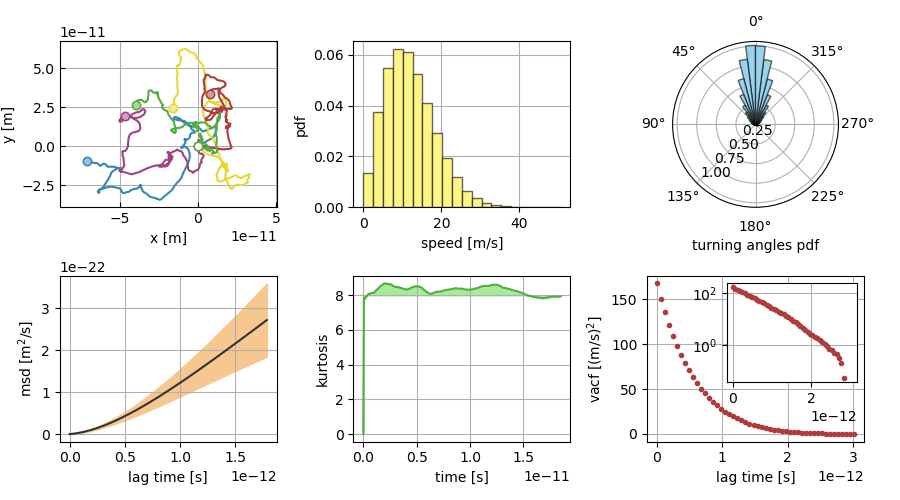
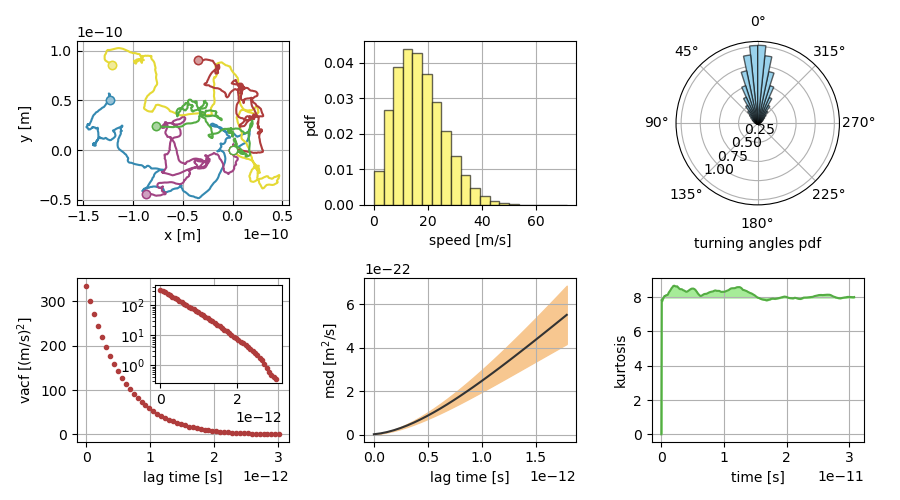
Update example 1 in docs

diff --git a/docs/source/examples/example1.rst b/docs/source/examples/example1.rst
@@ -60,17 +60,8 @@ Fix the random generator seed to make results reproducible:
 2. Definition of parameters
 ---------------------------
 
-First, we establish the generic parameters of the generator first:
+First, we define some physical constants:
 
-.. code-block:: python
-
-   tt_adim = 30     # dimensionless total time
-   dim = 2          # trajectory dimension
-   N = 1000         # number of trajectories
-   dt_adim = 1e-1   # dimensionless time step
-
-Let us define some deterministic parameters of the simulation
-(i.e., particle and fluid properties and physical constants):
 
 .. code-block:: python
 
@@ -83,34 +74,34 @@ Let us define some deterministic parameters of the simulation
    d2 = 18e-10      # semi-minor axis [m] [2]
 
 
-We can indirectly measure quantities that are related with the generator
-parameters required
+Then, we can indirectly measure quantities that are 
+related with the physical model:
 
 .. code-block:: python
 
    m = M / N0                   # mass of one molecule
    a = np.sqrt(d1/2 * d2/2)     # radius of the molecule
    alpha = 6 * np.pi * eta * a  # Stoke's coefficient
-   tau = (alpha / m)**-1        # relaxation time
    v_eq = np.sqrt(k * T / m)    # equilibrium thermal velocity
 
-Then, we can estimate intrinsic reference quantities:
 
-.. code-block:: python
-
-   vr = v_eq       # intrinsic reference velocity
-   tr = tau        # intrinsic reference time
-   lr = vr * tr    # intrinsic reference length
-
-And finally, the actual statistical model parameters for the
+Next, we compute actual statistical model parameters for the
 Langevin Generator:
 
 .. code-block:: python
 
-   dt = dt_adim * tr                        # real time step
-   noise_pdf = 'normal'                     # noise pdf
-   noise_scale_adim = np.sqrt(2 * dt_adim)  # scale parameter of noise pdf
-   v0_adim = np.random.randn(dim, N)        # initial dimensionaless speeds
+   tau = (alpha / m)**-1                   # relaxation time
+   noise_scale = np.sqrt(2 / tau) * v_eq   # scale parameter of noise pdf
+
+
+Finally, we define general simulation parameters:
+
+.. code-block:: python
+
+   dim = 2                # trajectory dimension
+   N = 1000               # number of trajectories
+   dt = 1e-1 * tau        # time step
+   tt = 50 * tau          # total time
 
 .. _Generating trajectories 1:
 
@@ -122,14 +113,9 @@ we just need to instantiate the class and generate the Trajectories:
 
 .. code-block:: python
 
-   lg = LangevinGenerator(tt_adim, dim, N, dt_adim, v0=v0_adim)
-   lg.set_scale(v_scale=vr, r_scale=lr, t_scale=tr)
+   lg = LangevinGenerator(tt, dim, N, dt, tau, noise_scale)
    trajs = lg.generate()
 
-The set_scale method allows to scale the values of Velocity, Position
-and Time after solving the statistical differential equation. It is also
-possible to multiply them directly to the input v0, r0, dt and T, but it
-makes the Generator slower.
 
 .. _Data analysis and plots 1:
 
@@ -153,9 +139,9 @@ Plot velocity histogram
 
 .. code-block:: python
 
-   v = speed_ensemble(trajs, step=1)
-   ax2 = plt.subplot(232)
-   plot_velocity_hist(v, bins=20, show=False)
+   v_norm = speed_ensemble(trajs)
+   plt.subplot(232)
+   plot_velocity_hist(v_norm, bins=20, show=False)
 
 Plot turning angles
 
@@ -163,7 +149,18 @@ Plot turning angles
 
    theta = turning_angles_ensemble(trajs)
    ax3 = plt.subplot(233, projection='polar')
-   plot_angles_hist(theta, show=False)
+   plot_angles_hist(theta, bins=60, show=False)
+
+
+Plot Velocity autocorrelation function
+
+.. code-block:: python
+
+   lag_vacf = 50
+   vacf, _ = vacf(trajs, time_avg=True, lag=lag_vacf)
+   ax6 = plt.subplot(234)
+   plot_vacf(vacf, dt, lag_vacf, show=False)
+
 
 Plot Mean Square Displacement
 
@@ -171,7 +168,7 @@ Plot Mean Square Displacement
 
    lag_msd = 30
    msd, msd_std = msd(trajs, time_avg=True, lag=lag_msd)
-   ax4 = plt.subplot(234)
+   ax4 = plt.subplot(235)
    plot_msd(msd, msd_std, dt, lag=lag_msd, show=False)
 
 Plot Kurtosis
@@ -180,17 +177,9 @@ Plot Kurtosis
 
    kurtosis = kurtosis(trajs, time_avg=False, lag=30)
    kurt_ref = kurtosis_reference(trajs)
-   ax5 = plt.subplot(235)
+   ax5 = plt.subplot(236)
    plot_kurtosis(kurtosis, kurtosis_ref=kurt_ref, dt=dt, show=False)
 
-Plot Velocity autocorrelation function
-
-.. code-block:: python
-
-   lag_vacf = 50
-   vacf, _ = vacf(trajs, time_avg=True, lag=lag_vacf)
-   ax6 = plt.subplot(236)
-   plot_vacf(vacf, dt, lag_vacf, show=False)
 
 Generate plot
 
